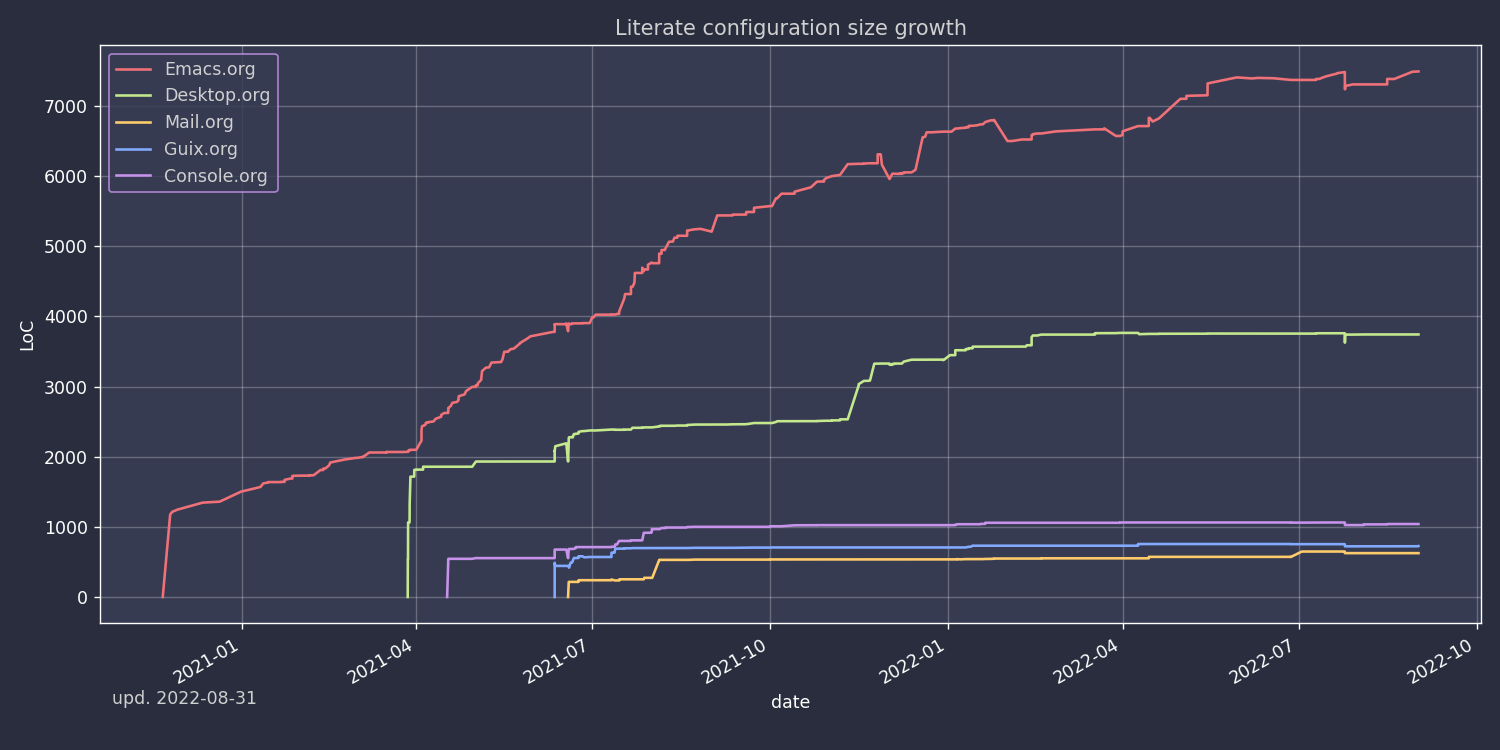
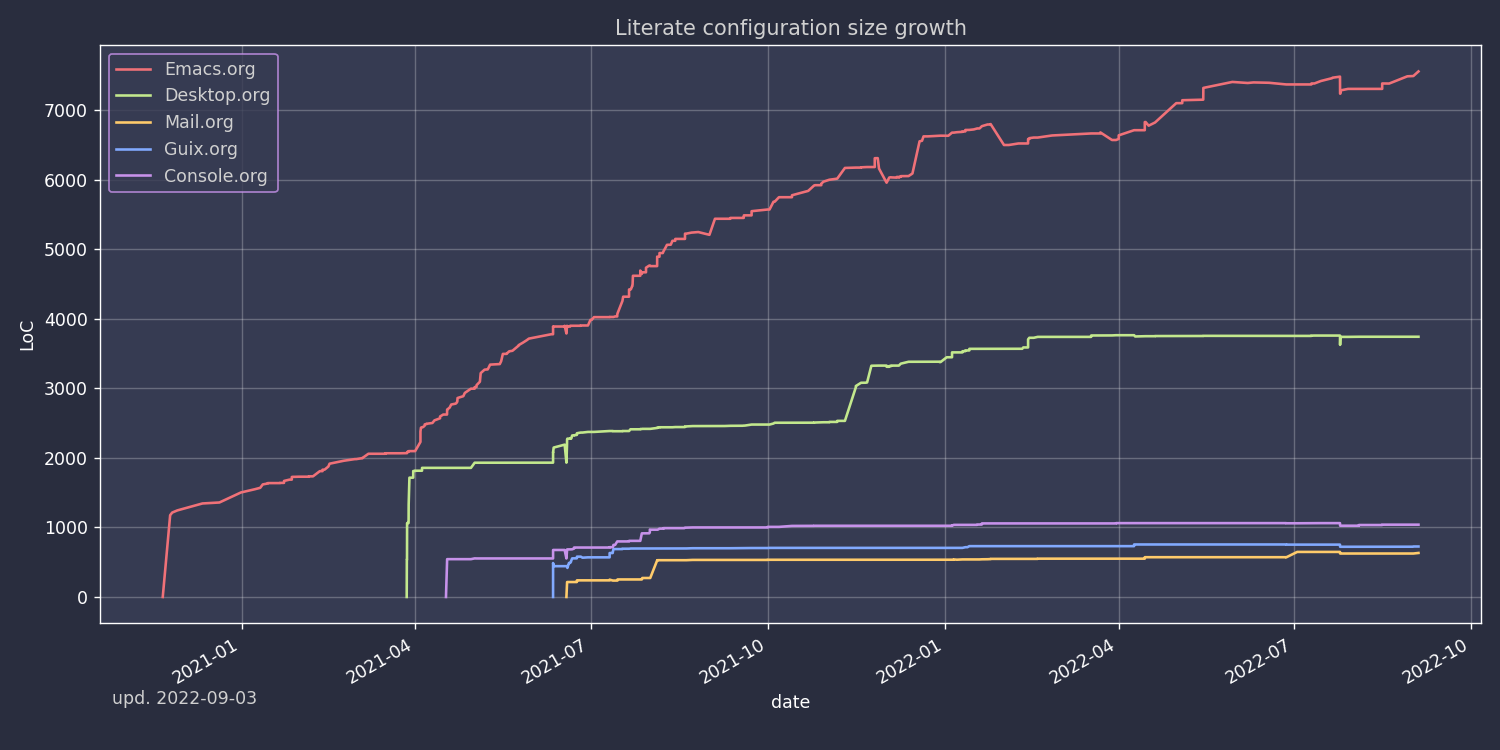
deploy: 6b9f02e76c662a035e6677173607a96d54519a8c

diff --git a/configs/emacs/index.html b/configs/emacs/index.html
@@ -1537,8 +1537,49 @@ Emacs is also particularly good at writing Lisp code, e.g. Clojure, Common Lisp,
 </span></span><span style="display:flex;"><span>   <span style="color:#ba2121">&#34;m&#34;</span> <span style="color:#00f">#&#39;</span><span style="color:#19177c">my/persp-move-window-and-switch</span>
 </span></span><span style="display:flex;"><span>   <span style="color:#ba2121">&#34;f&#34;</span> <span style="color:#00f">#&#39;</span><span style="color:#19177c">my/persp-copy-window-and-switch</span>))
 </span></span></code></pre></div><h4 id="automating-perspectives">Automating perspectives</h4>
-<p>I&rsquo;d like to have various Emacs apps open up in their designated perspectives (also in their designated workspaces when I&rsquo;m using EXWM).</p>
-<p>So, here is a macro to run something in a given perspective in a given workspace. This is meant to be used in general.el keybindings.</p>
+<p>One thing I don&rsquo;t like about <code>perspective.el</code> is that it doesn&rsquo;t feature much (or any) capacity for automation. So out-of-the-box we&rsquo;re supposed to manually assign buffers to perspectives we want.</p>
+<p>But we can cook some automation ourselves. First, let&rsquo;s define a variable with &ldquo;rules&rdquo;:</p>
+<div class="highlight"><pre tabindex="0" style=";-moz-tab-size:4;-o-tab-size:4;tab-size:4;"><code class="language-emacs-lisp" data-lang="emacs-lisp"><span style="display:flex;"><span>(<span style="color:#008000">setq</span> <span style="color:#19177c">my/perspective-assign-alist</span> <span style="color:#666">&#39;</span>())
+</span></span></code></pre></div><p>One rule looks as follows:</p>
+<div class="highlight"><pre tabindex="0" style=";-moz-tab-size:4;-o-tab-size:4;tab-size:4;"><code class="language-text" data-lang="text"><span style="display:flex;"><span>(major-mode workspace-index persp-name)
+</span></span></code></pre></div><p>And a function to act on these rules.</p>
+<div class="highlight"><pre tabindex="0" style=";-moz-tab-size:4;-o-tab-size:4;tab-size:4;"><code class="language-emacs-lisp" data-lang="emacs-lisp"><span style="display:flex;"><span>(<span style="color:#008000">defun</span> <span style="color:#19177c">my/perspective-assign</span> ()
+</span></span><span style="display:flex;"><span>  (<span style="color:#19177c">when-let*</span> ((<span style="color:#19177c">rule</span> (<span style="color:#19177c">alist-get</span> <span style="color:#19177c">major-mode</span> <span style="color:#19177c">my/perspective-assign-alist</span>)))
+</span></span><span style="display:flex;"><span>    (<span style="color:#008000">let</span> ((<span style="color:#19177c">workspace-index</span> (<span style="color:#00f">car</span> <span style="color:#19177c">rule</span>))
+</span></span><span style="display:flex;"><span>	  (<span style="color:#19177c">persp-name</span> (<span style="color:#19177c">cadr</span> <span style="color:#19177c">rule</span>))
+</span></span><span style="display:flex;"><span>	  (<span style="color:#19177c">buffer</span> (<span style="color:#00f">current-buffer</span>)))
+</span></span><span style="display:flex;"><span>      (<span style="color:#008000">if</span> (<span style="color:#00f">fboundp</span> <span style="color:#00f">#&#39;</span><span style="color:#19177c">perspective-exwm-assign-window</span>)
+</span></span><span style="display:flex;"><span>	  (<span style="color:#008000">progn</span>
+</span></span><span style="display:flex;"><span>	    (<span style="color:#19177c">perspective-exwm-assign-window</span>
+</span></span><span style="display:flex;"><span>	     <span style="color:#008000">:workspace-index</span> <span style="color:#19177c">workspace-index</span>
+</span></span><span style="display:flex;"><span>	     <span style="color:#008000">:persp-name</span> <span style="color:#19177c">persp-name</span>)
+</span></span><span style="display:flex;"><span>	    (<span style="color:#008000">when</span> <span style="color:#19177c">workspace-index</span>
+</span></span><span style="display:flex;"><span>	      (<span style="color:#19177c">exwm-workspace-switch</span> <span style="color:#19177c">workspace-index</span>))
+</span></span><span style="display:flex;"><span>	    (<span style="color:#008000">when</span> <span style="color:#19177c">persp-name</span>
+</span></span><span style="display:flex;"><span>	      (<span style="color:#19177c">persp-switch</span> <span style="color:#19177c">persp-name</span>)))
+</span></span><span style="display:flex;"><span>	(<span style="color:#19177c">with-perspective</span> <span style="color:#19177c">persp-name</span>
+</span></span><span style="display:flex;"><span>	  (<span style="color:#19177c">persp-set-buffer</span> <span style="color:#19177c">buffer</span>))
+</span></span><span style="display:flex;"><span>	(<span style="color:#19177c">persp-switch-to-buffer</span> <span style="color:#19177c">buffer</span>)))))
+</span></span></code></pre></div><p>If EXWM is available, then so is mine <code>perspective-exwm</code> package that features a convenient procedure called <code>perspective-exwm-assign-window</code>. If not, we just work with perspectives.</p>
+<p>Now, we have to put this function somewhere, and <code>after-change-major-mode-hook</code> seems like a perfect place for it.</p>
+<div class="highlight"><pre tabindex="0" style=";-moz-tab-size:4;-o-tab-size:4;tab-size:4;"><code class="language-emacs-lisp" data-lang="emacs-lisp"><span style="display:flex;"><span>(<span style="color:#19177c">add-hook</span> <span style="color:#19177c">&#39;after-change-major-mode-hook</span> <span style="color:#00f">#&#39;</span><span style="color:#19177c">my/perspective-assign</span>)
+</span></span></code></pre></div><p>And here is a simple macro to add rules to the list.</p>
+<div class="highlight"><pre tabindex="0" style=";-moz-tab-size:4;-o-tab-size:4;tab-size:4;"><code class="language-emacs-lisp" data-lang="emacs-lisp"><span style="display:flex;"><span>(<span style="color:#008000">defmacro</span> <span style="color:#19177c">my/persp-add-rule</span> (<span style="color:#008000">&amp;rest</span> <span style="color:#19177c">body</span>)
+</span></span><span style="display:flex;"><span>  (<span style="color:#008000">declare</span> (<span style="color:#19177c">indent</span> <span style="color:#666">0</span>))
+</span></span><span style="display:flex;"><span>  (<span style="color:#008000">unless</span> (<span style="color:#00f">=</span> (<span style="color:#00f">%</span> (<span style="color:#00f">length</span> <span style="color:#19177c">body</span>) <span style="color:#666">3</span>) <span style="color:#666">0</span>)
+</span></span><span style="display:flex;"><span>    (<span style="color:#d2413a;font-weight:bold">error</span> <span style="color:#ba2121">&#34;Malformed body in my/persp-add-rule&#34;</span>))
+</span></span><span style="display:flex;"><span>  (<span style="color:#008000">let</span> (<span style="color:#19177c">result</span>)
+</span></span><span style="display:flex;"><span>    (<span style="color:#008000">while</span> <span style="color:#19177c">body</span>
+</span></span><span style="display:flex;"><span>      (<span style="color:#008000">let</span> ((<span style="color:#19177c">major-mode</span> (<span style="color:#008000">pop</span> <span style="color:#19177c">body</span>))
+</span></span><span style="display:flex;"><span>	    (<span style="color:#19177c">workspace-index</span> (<span style="color:#008000">pop</span> <span style="color:#19177c">body</span>))
+</span></span><span style="display:flex;"><span>	    (<span style="color:#19177c">persp-name</span> (<span style="color:#008000">pop</span> <span style="color:#19177c">body</span>)))
+</span></span><span style="display:flex;"><span>	(<span style="color:#008000">push</span>
+</span></span><span style="display:flex;"><span>	 <span style="color:#666">`</span>(<span style="color:#19177c">add-to-list</span> <span style="color:#19177c">&#39;my/perspective-assign-alist</span>
+</span></span><span style="display:flex;"><span>		       <span style="color:#666">&#39;</span>(<span style="color:#666">,</span><span style="color:#19177c">major-mode</span> <span style="color:#666">.</span> (<span style="color:#666">,</span><span style="color:#19177c">workspace-index</span> <span style="color:#666">,</span><span style="color:#19177c">persp-name</span>)))
+</span></span><span style="display:flex;"><span>	 <span style="color:#19177c">result</span>)))
+</span></span><span style="display:flex;"><span>    <span style="color:#666">`</span>(<span style="color:#008000">progn</span>
+</span></span><span style="display:flex;"><span>       <span style="color:#666">,@</span><span style="color:#19177c">result</span>)))
+</span></span></code></pre></div><p>Also, the logic above works only for cases when the buffer is created. Occasionally, the packages themselves run <code>switch-to-buffer</code>, which screws both EXWM workspaces and perspectives; to work around that, I define a macro that runs a command in a given perspective and workspace.</p>
 <div class="highlight"><pre tabindex="0" style=";-moz-tab-size:4;-o-tab-size:4;tab-size:4;"><code class="language-emacs-lisp" data-lang="emacs-lisp"><span style="display:flex;"><span>(<span style="color:#008000">defmacro</span> <span style="color:#19177c">my/command-in-persp</span> (<span style="color:#19177c">command-name</span> <span style="color:#19177c">persp-name</span> <span style="color:#19177c">workspace-index</span> <span style="color:#008000">&amp;rest</span> <span style="color:#19177c">args</span>)
 </span></span><span style="display:flex;"><span>  <span style="color:#666">`&#39;</span>((<span style="color:#008000">lambda</span> ()
 </span></span><span style="display:flex;"><span>       (<span style="color:#008000">interactive</span>)
@@ -1548,7 +1589,8 @@ Emacs is also particularly good at writing Lisp code, e.g. Clojure, Common Lisp,
 </span></span><span style="display:flex;"><span>       (<span style="color:#19177c">delete-other-windows</span>)
 </span></span><span style="display:flex;"><span>       <span style="color:#666">,@</span><span style="color:#19177c">args</span>)
 </span></span><span style="display:flex;"><span>     <span style="color:#008000">:wk</span> <span style="color:#666">,</span><span style="color:#19177c">command-name</span>))
-</span></span></code></pre></div><h2 id="programming">Programming</h2>
+</span></span></code></pre></div><p>This is meant to be used in the definitions of <code>general.el</code>.</p>
+<h2 id="programming">Programming</h2>
 <h3 id="general-setup">General setup</h3>
 <h4 id="treemacs">Treemacs</h4>
 <p><a href="https://github.com/Alexander-Miller/treemacs">Treemacs</a> is a quite large &amp; powerful package, but as of now I&rsquo;ve replaced it with dired. I still have a small configuration because lsp-mode and dap-mode depend on it.</p>
@@ -5078,7 +5120,11 @@ Emacs is also particularly good at writing Lisp code, e.g. Clojure, Common Lisp,
 </span></span><span style="display:flex;"><span>  <span style="color:#008000">:if</span> (<span style="color:#19177c">not</span> <span style="color:#19177c">my/remote-server</span>)
 </span></span><span style="display:flex;"><span>  <span style="color:#008000">:commands</span> (<span style="color:#19177c">elfeed</span>)
 </span></span><span style="display:flex;"><span>  <span style="color:#008000">:init</span>
-</span></span><span style="display:flex;"><span>  (<span style="color:#19177c">my-leader-def</span> <span style="color:#ba2121">&#34;ae&#34;</span> (<span style="color:#19177c">my/command-in-persp</span> <span style="color:#ba2121">&#34;elfeed&#34;</span> <span style="color:#ba2121">&#34;elfeed&#34;</span> <span style="color:#666">0</span> (<span style="color:#19177c">elfeed-summary</span>)))
+</span></span><span style="display:flex;"><span>  (<span style="color:#19177c">my-leader-def</span> <span style="color:#ba2121">&#34;ae&#34;</span> <span style="color:#00f">#&#39;</span><span style="color:#19177c">elfeed-summary</span>)
+</span></span><span style="display:flex;"><span>  (<span style="color:#19177c">my/persp-add-rule</span>
+</span></span><span style="display:flex;"><span>    <span style="color:#19177c">elfeed-summary-mode</span> <span style="color:#666">0</span> <span style="color:#ba2121">&#34;elfeed&#34;</span>
+</span></span><span style="display:flex;"><span>    <span style="color:#19177c">elfeed-search-mode</span> <span style="color:#666">0</span> <span style="color:#ba2121">&#34;elfeed&#34;</span>
+</span></span><span style="display:flex;"><span>    <span style="color:#19177c">elfeed-show-mode</span> <span style="color:#666">0</span> <span style="color:#ba2121">&#34;elfeed&#34;</span>)
 </span></span><span style="display:flex;"><span>  (<span style="color:#008000">setq</span> <span style="color:#19177c">shr-max-image-proportion</span> <span style="color:#666">0.5</span>)
 </span></span><span style="display:flex;"><span>  <span style="color:#008000">:config</span>
 </span></span><span style="display:flex;"><span>  (<span style="color:#008000">setq</span> <span style="color:#19177c">elfeed-db-directory</span> <span style="color:#ba2121">&#34;~/.elfeed&#34;</span>)
@@ -5739,16 +5785,19 @@ Emacs is also particularly good at writing Lisp code, e.g. Clojure, Common Lisp,
 </span></span><span style="display:flex;"><span>  (<span style="color:#19177c">my-leader-def</span>
 </span></span><span style="display:flex;"><span>    <span style="color:#008000">:infix</span> <span style="color:#ba2121">&#34;as&#34;</span>
 </span></span><span style="display:flex;"><span>    <span style="color:#ba2121">&#34;&#34;</span> <span style="color:#666">&#39;</span>(<span style="color:#008000">:which-key</span> <span style="color:#ba2121">&#34;emms&#34;</span>)
-</span></span><span style="display:flex;"><span>    <span style="color:#ba2121">&#34;s&#34;</span> (<span style="color:#19177c">my/command-in-persp</span> <span style="color:#ba2121">&#34;emms&#34;</span> <span style="color:#ba2121">&#34;EMMS&#34;</span> <span style="color:#666">0</span> (<span style="color:#19177c">emms-smart-browse</span>))
-</span></span><span style="display:flex;"><span>    <span style="color:#ba2121">&#34;b&#34;</span> <span style="color:#19177c">&#39;emms-browser</span>
-</span></span><span style="display:flex;"><span>    <span style="color:#ba2121">&#34;p&#34;</span> <span style="color:#19177c">&#39;emms-pause</span>
-</span></span><span style="display:flex;"><span>    <span style="color:#ba2121">&#34;q&#34;</span> <span style="color:#19177c">&#39;emms-stop</span>
-</span></span><span style="display:flex;"><span>    <span style="color:#ba2121">&#34;h&#34;</span> <span style="color:#19177c">&#39;emms-previous</span>
-</span></span><span style="display:flex;"><span>    <span style="color:#ba2121">&#34;l&#34;</span> <span style="color:#19177c">&#39;emms-next</span>
-</span></span><span style="display:flex;"><span>    <span style="color:#ba2121">&#34;u&#34;</span> <span style="color:#19177c">&#39;emms-player-mpd-connect</span>
-</span></span><span style="display:flex;"><span>    <span style="color:#ba2121">&#34;ww&#34;</span> <span style="color:#19177c">&#39;emms-lyrics</span>
-</span></span><span style="display:flex;"><span>    <span style="color:#ba2121">&#34;wb&#34;</span> <span style="color:#19177c">&#39;emms-lyrics-toggle-display-on-minibuffer</span>
-</span></span><span style="display:flex;"><span>    <span style="color:#ba2121">&#34;wm&#34;</span> <span style="color:#19177c">&#39;emms-lyrics-toggle-display-on-modeline</span>)
+</span></span><span style="display:flex;"><span>    <span style="color:#ba2121">&#34;s&#34;</span> <span style="color:#00f">#&#39;</span><span style="color:#19177c">emms-smart-browse</span>
+</span></span><span style="display:flex;"><span>    <span style="color:#ba2121">&#34;b&#34;</span> <span style="color:#00f">#&#39;</span><span style="color:#19177c">emms-browser</span>
+</span></span><span style="display:flex;"><span>    <span style="color:#ba2121">&#34;p&#34;</span> <span style="color:#00f">#&#39;</span><span style="color:#19177c">emms-pause</span>
+</span></span><span style="display:flex;"><span>    <span style="color:#ba2121">&#34;q&#34;</span> <span style="color:#00f">#&#39;</span><span style="color:#19177c">emms-stop</span>
+</span></span><span style="display:flex;"><span>    <span style="color:#ba2121">&#34;h&#34;</span> <span style="color:#00f">#&#39;</span><span style="color:#19177c">emms-previous</span>
+</span></span><span style="display:flex;"><span>    <span style="color:#ba2121">&#34;l&#34;</span> <span style="color:#00f">#&#39;</span><span style="color:#19177c">emms-next</span>
+</span></span><span style="display:flex;"><span>    <span style="color:#ba2121">&#34;u&#34;</span> <span style="color:#00f">#&#39;</span><span style="color:#19177c">emms-player-mpd-connect</span>
+</span></span><span style="display:flex;"><span>    <span style="color:#ba2121">&#34;ww&#34;</span> <span style="color:#00f">#&#39;</span><span style="color:#19177c">emms-lyrics</span>
+</span></span><span style="display:flex;"><span>    <span style="color:#ba2121">&#34;wb&#34;</span> <span style="color:#00f">#&#39;</span><span style="color:#19177c">emms-lyrics-toggle-display-on-minibuffer</span>
+</span></span><span style="display:flex;"><span>    <span style="color:#ba2121">&#34;wm&#34;</span> <span style="color:#00f">#&#39;</span><span style="color:#19177c">emms-lyrics-toggle-display-on-modeline</span>)
+</span></span><span style="display:flex;"><span>  (<span style="color:#19177c">my/persp-add-rule</span>
+</span></span><span style="display:flex;"><span>    <span style="color:#19177c">emms-browser-mode</span> <span style="color:#666">0</span> <span style="color:#ba2121">&#34;EMMS&#34;</span>
+</span></span><span style="display:flex;"><span>    <span style="color:#19177c">emms-playlist-mode</span> <span style="color:#666">0</span> <span style="color:#ba2121">&#34;EMMS&#34;</span>)
 </span></span><span style="display:flex;"><span>  (<span style="color:#008000">setq</span> <span style="color:#19177c">emms-mode-line-icon-enabled-p</span> <span style="color:#800">nil</span>)
 </span></span><span style="display:flex;"><span>  <span style="color:#008000">:config</span>
 </span></span><span style="display:flex;"><span>  (<span style="color:#008000">require</span> <span style="color:#19177c">&#39;emms-setup</span>)
@@ -6067,7 +6116,9 @@ Emacs is also particularly good at writing Lisp code, e.g. Clojure, Common Lisp,
 </span></span><span style="display:flex;"><span>  <span style="color:#008000">:straight</span> <span style="color:#800">t</span>
 </span></span><span style="display:flex;"><span>  <span style="color:#008000">:commands</span> (<span style="color:#19177c">znc-erc</span>)
 </span></span><span style="display:flex;"><span>  <span style="color:#008000">:init</span>
-</span></span><span style="display:flex;"><span>  (<span style="color:#19177c">my-leader-def</span> <span style="color:#ba2121">&#34;ai&#34;</span> (<span style="color:#19177c">my/command-in-persp</span> <span style="color:#ba2121">&#34;erc&#34;</span> <span style="color:#ba2121">&#34;ERC&#34;</span> <span style="color:#666">0</span> (<span style="color:#19177c">znc-erc</span>)))
+</span></span><span style="display:flex;"><span>  (<span style="color:#19177c">my-leader-def</span> <span style="color:#ba2121">&#34;ai&#34;</span> <span style="color:#00f">#&#39;</span><span style="color:#19177c">znc-erc</span>)
+</span></span><span style="display:flex;"><span>  (<span style="color:#19177c">my/persp-add-rule</span>
+</span></span><span style="display:flex;"><span>    <span style="color:#19177c">erc-mode</span> <span style="color:#666">0</span> <span style="color:#ba2121">&#34;ERC&#34;</span>)
 </span></span><span style="display:flex;"><span>  <span style="color:#008000">:config</span>
 </span></span><span style="display:flex;"><span>  (<span style="color:#008000">setq</span> <span style="color:#19177c">znc-servers</span>
 </span></span><span style="display:flex;"><span>	<span style="color:#666">`</span>((<span style="color:#ba2121">&#34;sqrtminusone.xyz&#34;</span> <span style="color:#666">6697</span> <span style="color:#800">t</span>
@@ -6282,10 +6333,7 @@ Emacs is also particularly good at writing Lisp code, e.g. Clojure, Common Lisp,
 </span></span><span style="display:flex;"><span>  <span style="color:#008000">:straight</span> <span style="color:#800">t</span>
 </span></span><span style="display:flex;"><span>  <span style="color:#008000">:commands</span> (<span style="color:#19177c">prodigy</span>)
 </span></span><span style="display:flex;"><span>  <span style="color:#008000">:init</span>
-</span></span><span style="display:flex;"><span>  (<span style="color:#19177c">my-leader-def</span> <span style="color:#ba2121">&#34;aP&#34;</span> (<span style="color:#19177c">my/command-in-persp</span>
-</span></span><span style="display:flex;"><span>		       <span style="color:#ba2121">&#34;deploy&#34;</span> <span style="color:#ba2121">&#34;prodigy&#34;</span> <span style="color:#800">nil</span>
-</span></span><span style="display:flex;"><span>		       (<span style="color:#19177c">prodigy</span>)
-</span></span><span style="display:flex;"><span>		       (<span style="color:#19177c">delete-other-windows</span>)))
+</span></span><span style="display:flex;"><span>  (<span style="color:#19177c">my-leader-def</span> <span style="color:#ba2121">&#34;aP&#34;</span> <span style="color:#00f">#&#39;</span><span style="color:#19177c">prodigy</span>)
 </span></span><span style="display:flex;"><span>  <span style="color:#008000">:config</span>
 </span></span><span style="display:flex;"><span>  (<span style="color:#19177c">general-define-key</span>
 </span></span><span style="display:flex;"><span>   <span style="color:#008000">:states</span> <span style="color:#666">&#39;</span>(<span style="color:#19177c">normal</span>)

diff --git a/configs/mail/index.html b/configs/mail/index.html
@@ -481,6 +481,11 @@ Remove <code>TAG</code> from emails which are outside the matching <code>PATH</c
 </span></span><span style="display:flex;"><span>  <span style="color:#008000">:infix</span> <span style="color:#ba2121">&#34;am&#34;</span>
 </span></span><span style="display:flex;"><span>  <span style="color:#ba2121">&#34;&#34;</span> <span style="color:#666">&#39;</span>(<span style="color:#008000">:which-key</span> <span style="color:#ba2121">&#34;notmuch&#34;</span>)
 </span></span><span style="display:flex;"><span>  <span style="color:#ba2121">&#34;m&#34;</span> (<span style="color:#19177c">my/command-in-persp</span> <span style="color:#ba2121">&#34;notmuch&#34;</span> <span style="color:#ba2121">&#34;mail&#34;</span> <span style="color:#666">0</span> (<span style="color:#19177c">notmuch</span>)))
+</span></span></code></pre></div><div class="highlight"><pre tabindex="0" style=";-moz-tab-size:4;-o-tab-size:4;tab-size:4;"><code class="language-emacs-lisp" data-lang="emacs-lisp"><span style="display:flex;"><span>(<span style="color:#19177c">my/persp-add-rule</span>
+</span></span><span style="display:flex;"><span>  <span style="color:#19177c">notmuch-hello-mode</span> <span style="color:#666">0</span> <span style="color:#ba2121">&#34;mail&#34;</span>
+</span></span><span style="display:flex;"><span>  <span style="color:#19177c">notmuch-search-mode</span> <span style="color:#666">0</span> <span style="color:#ba2121">&#34;mail&#34;</span>
+</span></span><span style="display:flex;"><span>  <span style="color:#19177c">notmuch-tree-mode</span> <span style="color:#666">0</span> <span style="color:#ba2121">&#34;mail&#34;</span>
+</span></span><span style="display:flex;"><span>  <span style="color:#19177c">notmuch-message-mode</span> <span style="color:#666">0</span> <span style="color:#ba2121">&#34;mail&#34;</span>)
 </span></span></code></pre></div><p><a id="table--root-tags"></a></p>
 <table>
 <thead>

diff --git a/index.html b/index.html
@@ -1,6 +1,6 @@
 <!DOCTYPE html>
 <html lang=""><head>
-	<meta name="generator" content="Hugo 0.102.2" />
+	<meta name="generator" content="Hugo 0.102.3" />
     <meta charset="utf-8">
     <meta name="viewport" content="width=device-width, initial-scale=1, shrink-to-fit=no">
 
